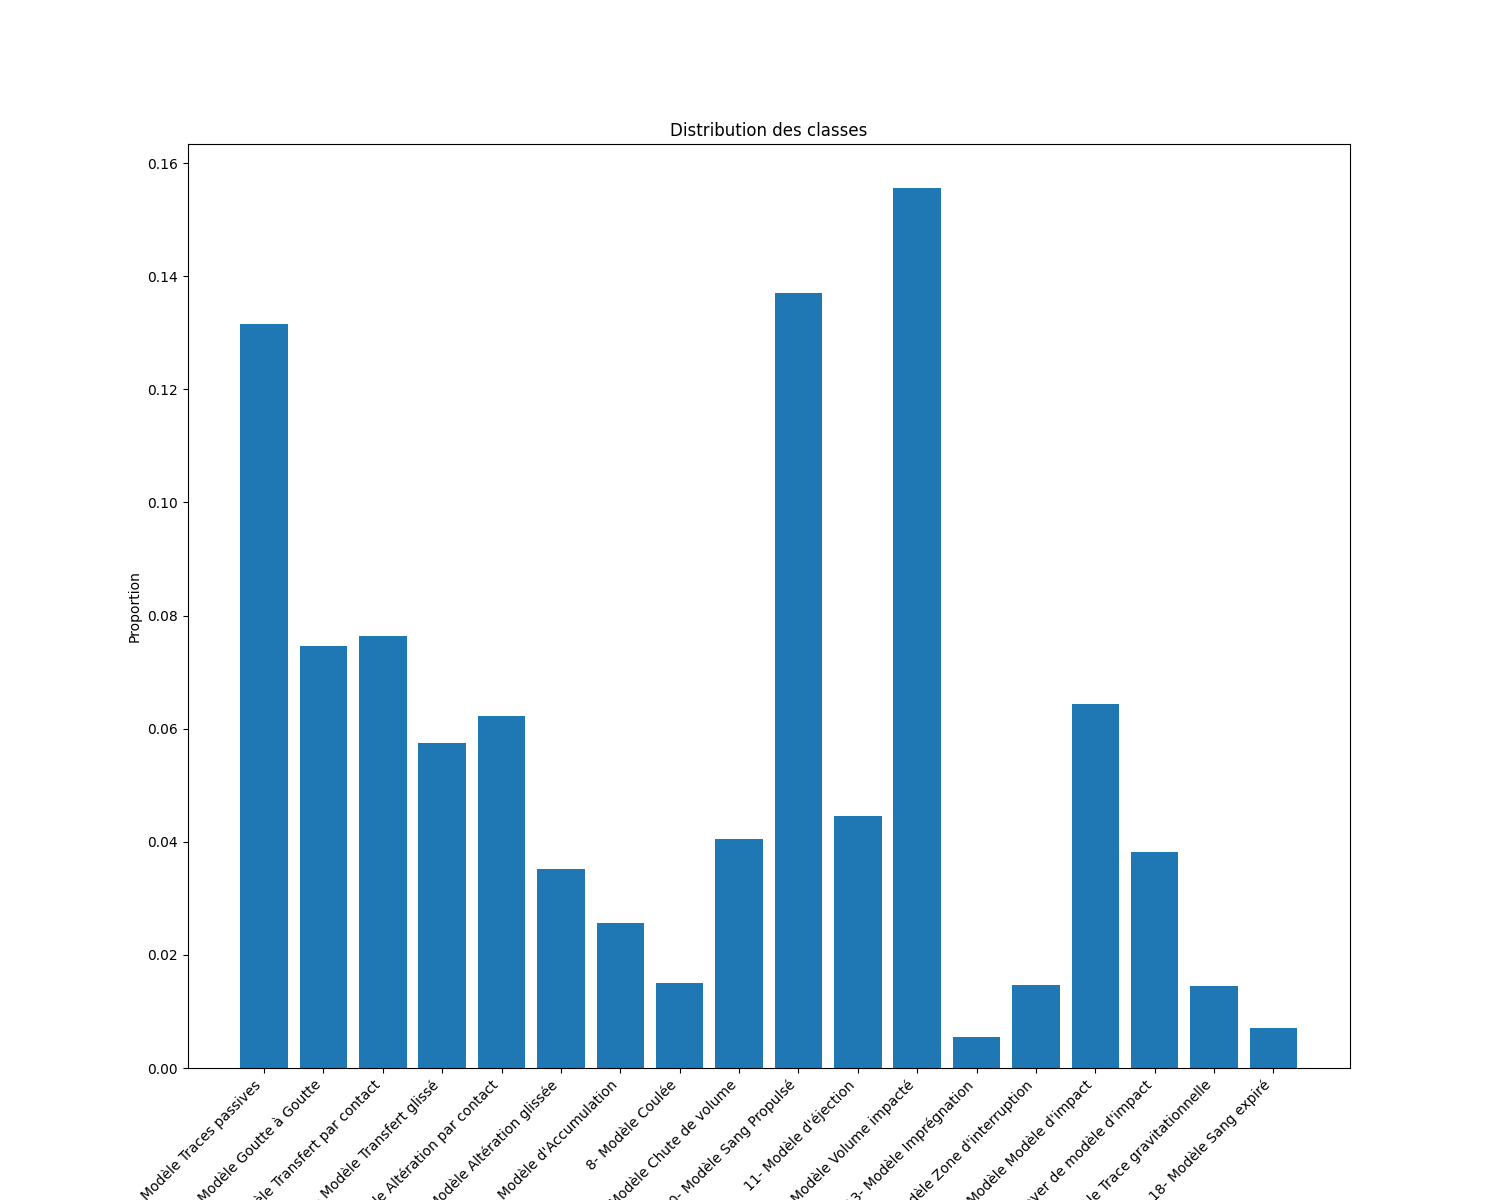
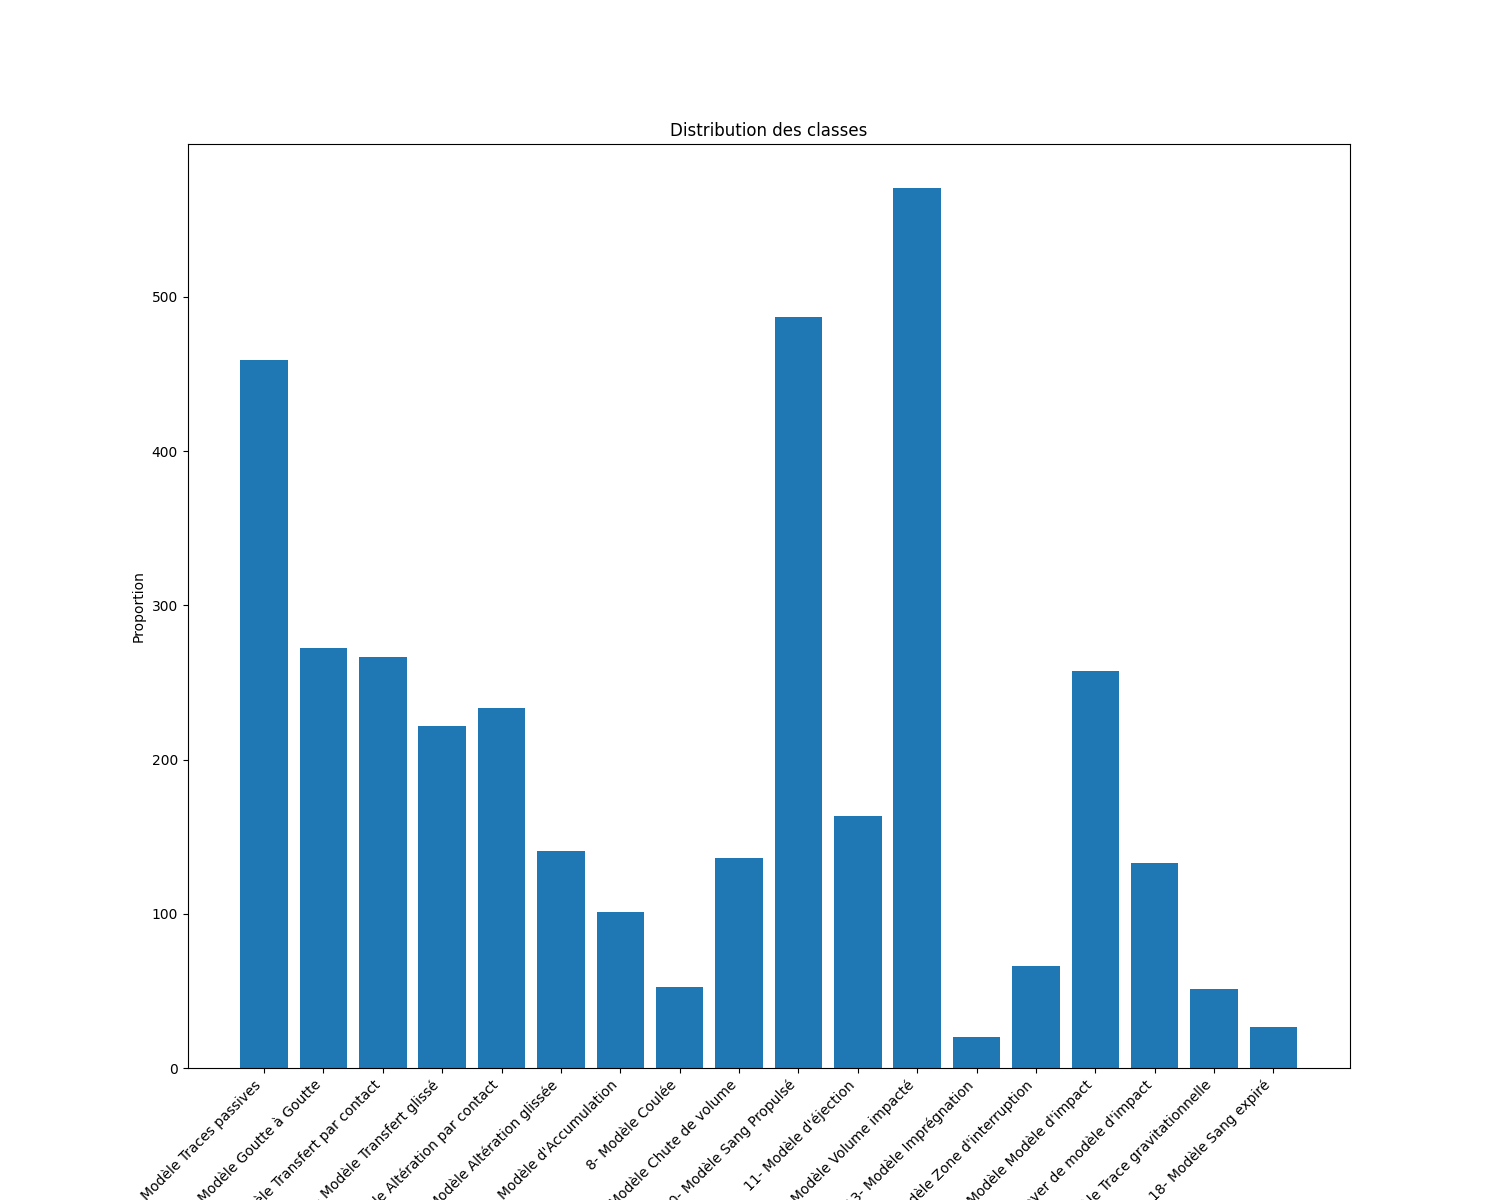
change distribution

diff --git a/data/distribution.py b/data/distribution.py
@@ -11,24 +11,28 @@ from src.dataloader.labels import LABELS, BACKGROUND
 
 
 def get_distribution(mode: str,
-                     datapath: str=os.path.join('data', 'data_labo')
+                     datapath: str=os.path.join('data', 'data_labo'),
+                     use_background: bool=True
                      ) -> np.ndarray[float]:
-    datapath = os.path.join(datapath, f'{mode}_128')
+    datapath = os.path.join(datapath, f'{mode}_256')
     labels_distribution = []
     for label in LABELS:
         num_data = 0
-        for bg in BACKGROUND:
-            num_data += len(os.listdir(os.path.join(datapath, label, bg)))
-        labels_distribution.append(num_data)
 
-    N = sum(labels_distribution)
-    for i in range(len(labels_distribution)):
-        labels_distribution[i] /= N
+        if use_background:
+            for bg in BACKGROUND:
+                num_data += len(os.listdir(os.path.join(datapath, label, bg)))
+        else:
+            num_data = len(os.listdir(os.path.join(datapath, label)))
+
+        labels_distribution.append(num_data)
     
     return np.array(labels_distribution)
 
 
-def plot_distrib(labels_distribution: list[int]):
+def plot_distrib(labels_distribution: list[int],
+                 title: str='distribution.png'
+                 ) -> None:
     total_classes = len(labels_distribution)
     classes_index = range(1, total_classes + 1)
 
@@ -41,10 +45,14 @@ def plot_distrib(labels_distribution: list[int]):
 
     plt.xticks(classes_index, LABELS, rotation=45, ha='right')
 
-    plt.savefig('distribution.png')
+    plt.savefig(os.path.join('data', title))
 
 
-def plot_3distribution(distribution1, distribution2, distribution3) -> None:
+def plot_3distribution(distribution1: np.ndarray[float],
+                       distribution2: np.ndarray[float],
+                       distribution3: np.ndarray[float],
+                       title='distribution_train_val_test.png'
+                       ) -> None:
     classes_index = np.arange(1, 19)
     bar_width = 0.25
 
@@ -62,7 +70,8 @@ def plot_3distribution(distribution1, distribution2, distribution3) -> None:
     ax.legend()
 
     plt.tight_layout()
-    plt.savefig('distribution_train_val_test.png')
+    plt.xticks(classes_index, LABELS, rotation=45, ha='right')
+    plt.savefig(os.path.join('data', title))
 
 
 if __name__ == '__main__':
@@ -71,8 +80,18 @@ if __name__ == '__main__':
     test = get_distribution(mode='test')
 
     plot_distrib((train + val + test) / 3)
-    # plot_3distribution(train, val, test)
+    plot_3distribution(train, val, test)
 
-    # print('label, train, val, test')
-    # for i in range(len(info.LABELS)):
-    #     print(f'{i + 1:2}: {train[i]:.2f} {val[i]:.2f} {test[i]:.2f}')
+    train_real = get_distribution(mode='train',
+                                  datapath=os.path.join('data', 'data_real'),
+                                  use_background=False)
+    val_real = get_distribution(mode='val',
+                                datapath=os.path.join('data', 'data_real'),
+                                use_background=False)
+    test_real = get_distribution(mode='test',
+                                 datapath=os.path.join('data', 'data_real'),
+                                 use_background=False)
+    plot_distrib((train_real + val_real + test_real) / 3,
+                 title='distribution_real.png')
+    plot_3distribution(train_real, val_real, test_real,
+                       title='distribution_train_val_test_real.png')
